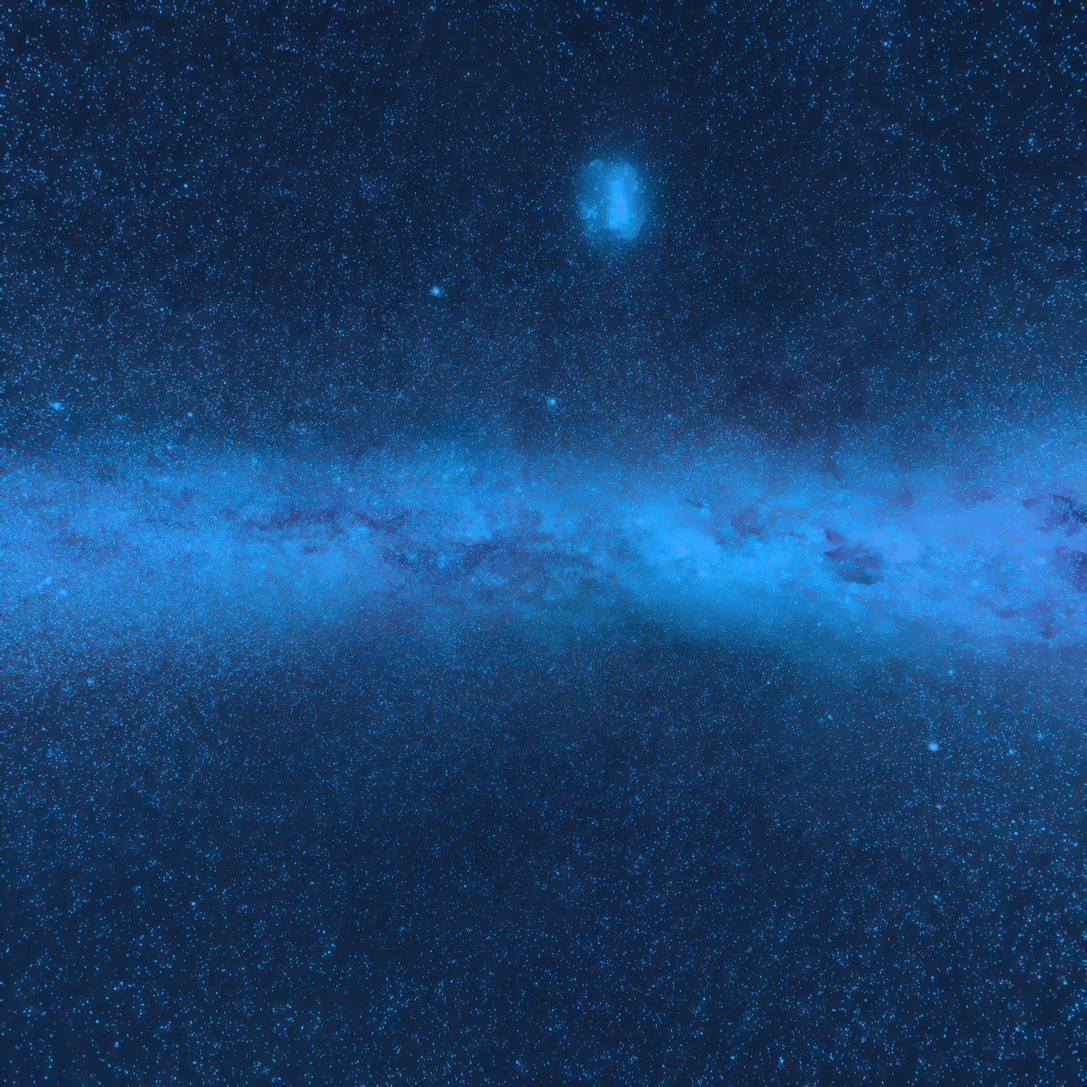
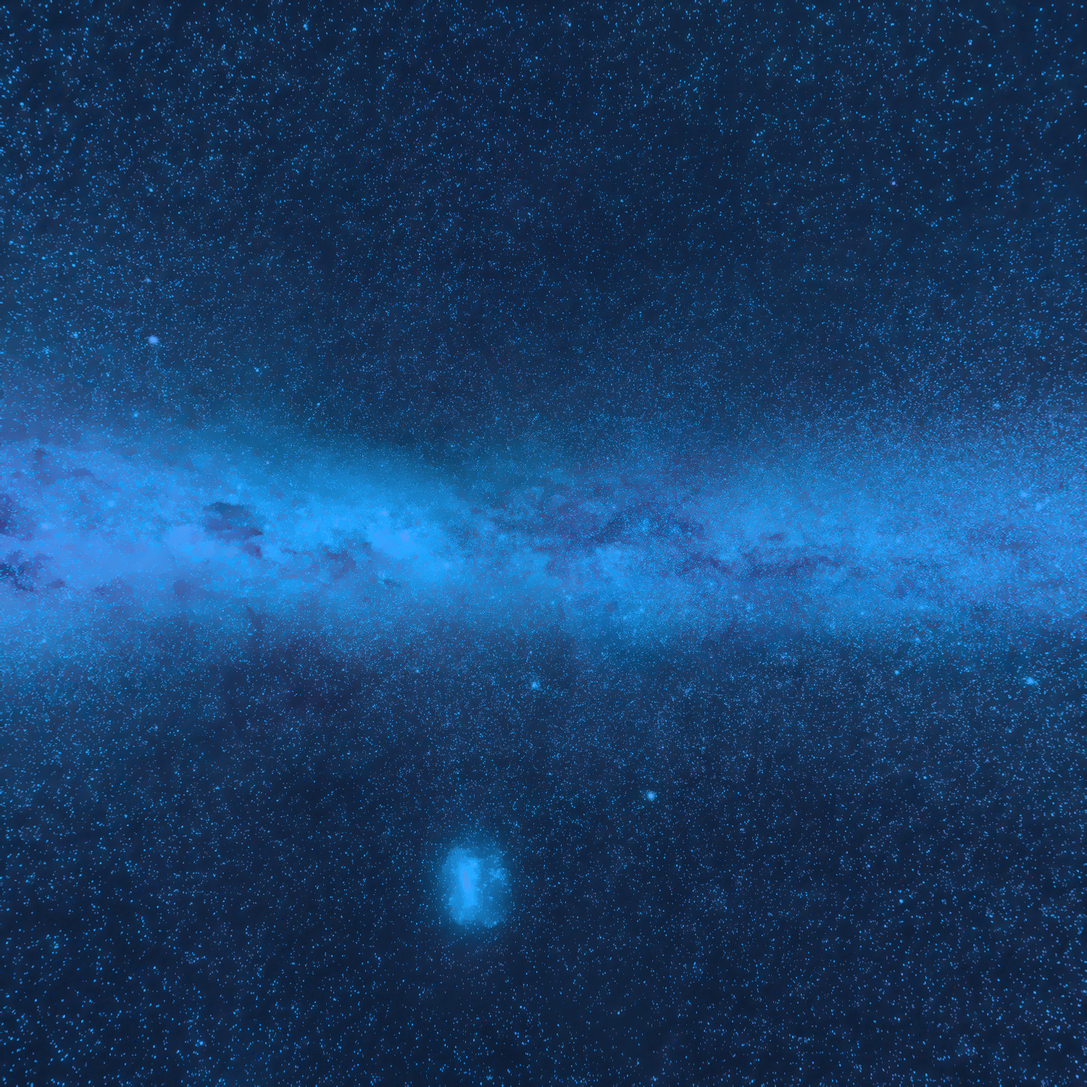
Slow skybox rotation

diff --git a/pages/index.tsx b/pages/index.tsx
@@ -2,7 +2,7 @@ import React from "react";
 import Image from 'next/image'
 import styles from '../styles/grass_field.module.css';
 
-import { Vector3, MeshBuilder, Mesh, DepthOfFieldEffectBlurLevel, CubeTexture } from "@babylonjs/core";
+import { Vector3, MeshBuilder, Mesh, DepthOfFieldEffectBlurLevel, CubeTexture, Texture, StandardMaterial } from "@babylonjs/core";
 import { Scene, Color3, Color4 } from "@babylonjs/core";
 import SceneComponent from "../Components/babylon/SceneComponent";
 import type { NextPage } from 'next';
@@ -41,9 +41,18 @@ const onSceneReady = (scene: Scene) => {
   camera.attachControl(scene.getEngine().getRenderingCanvas());
   //camera.useAutoRotationBehavior = true;
 
-  const cubeTexture = new CubeTexture("/grassets/sky", scene);
-  cubeTexture.rotationY = 7*Math.PI/8;
-  scene.createDefaultSkybox(cubeTexture, false, 10000);
+  //const cubeTexture = new CubeTexture("/grassets/sky", scene);
+  //cubeTexture.rotationY = 7*Math.PI/8;
+  const skybox = MeshBuilder.CreateBox("skyBox", { size: 10000.0 }, scene);
+	const skyboxMaterial = new StandardMaterial("skyBox", scene);
+	skyboxMaterial.backFaceCulling = false;
+	skyboxMaterial.reflectionTexture = new CubeTexture("/grassets/sky", scene);
+	skyboxMaterial.reflectionTexture.coordinatesMode = Texture.SKYBOX_MODE;
+	skyboxMaterial.diffuseColor = new Color3(0, 0, 0);
+	skyboxMaterial.specularColor = new Color3(0, 0, 0);
+	skybox.material = skyboxMaterial;	
+  skybox.rotation.y = 9*Math.PI/8;
+  skybox.rotation.x = -Math.PI/5;
 
   const player: Player = new Player(scene, camera, box);
   const grass: Grass = new Grass(scene, player);
@@ -92,6 +101,8 @@ const onRender = (scene: Scene) => {
 
   const deltaTimeInMillis = scene.getEngine().getDeltaTime();
   camera.radius += zoomSpeedScalar * deltaTimeInMillis / 60;
+  scene.getMeshById("skyBox").rotation.z -= 0.0002 * deltaTimeInMillis / 60;
+
 };
 
 const GrassFieldPage: NextPage = () => {
